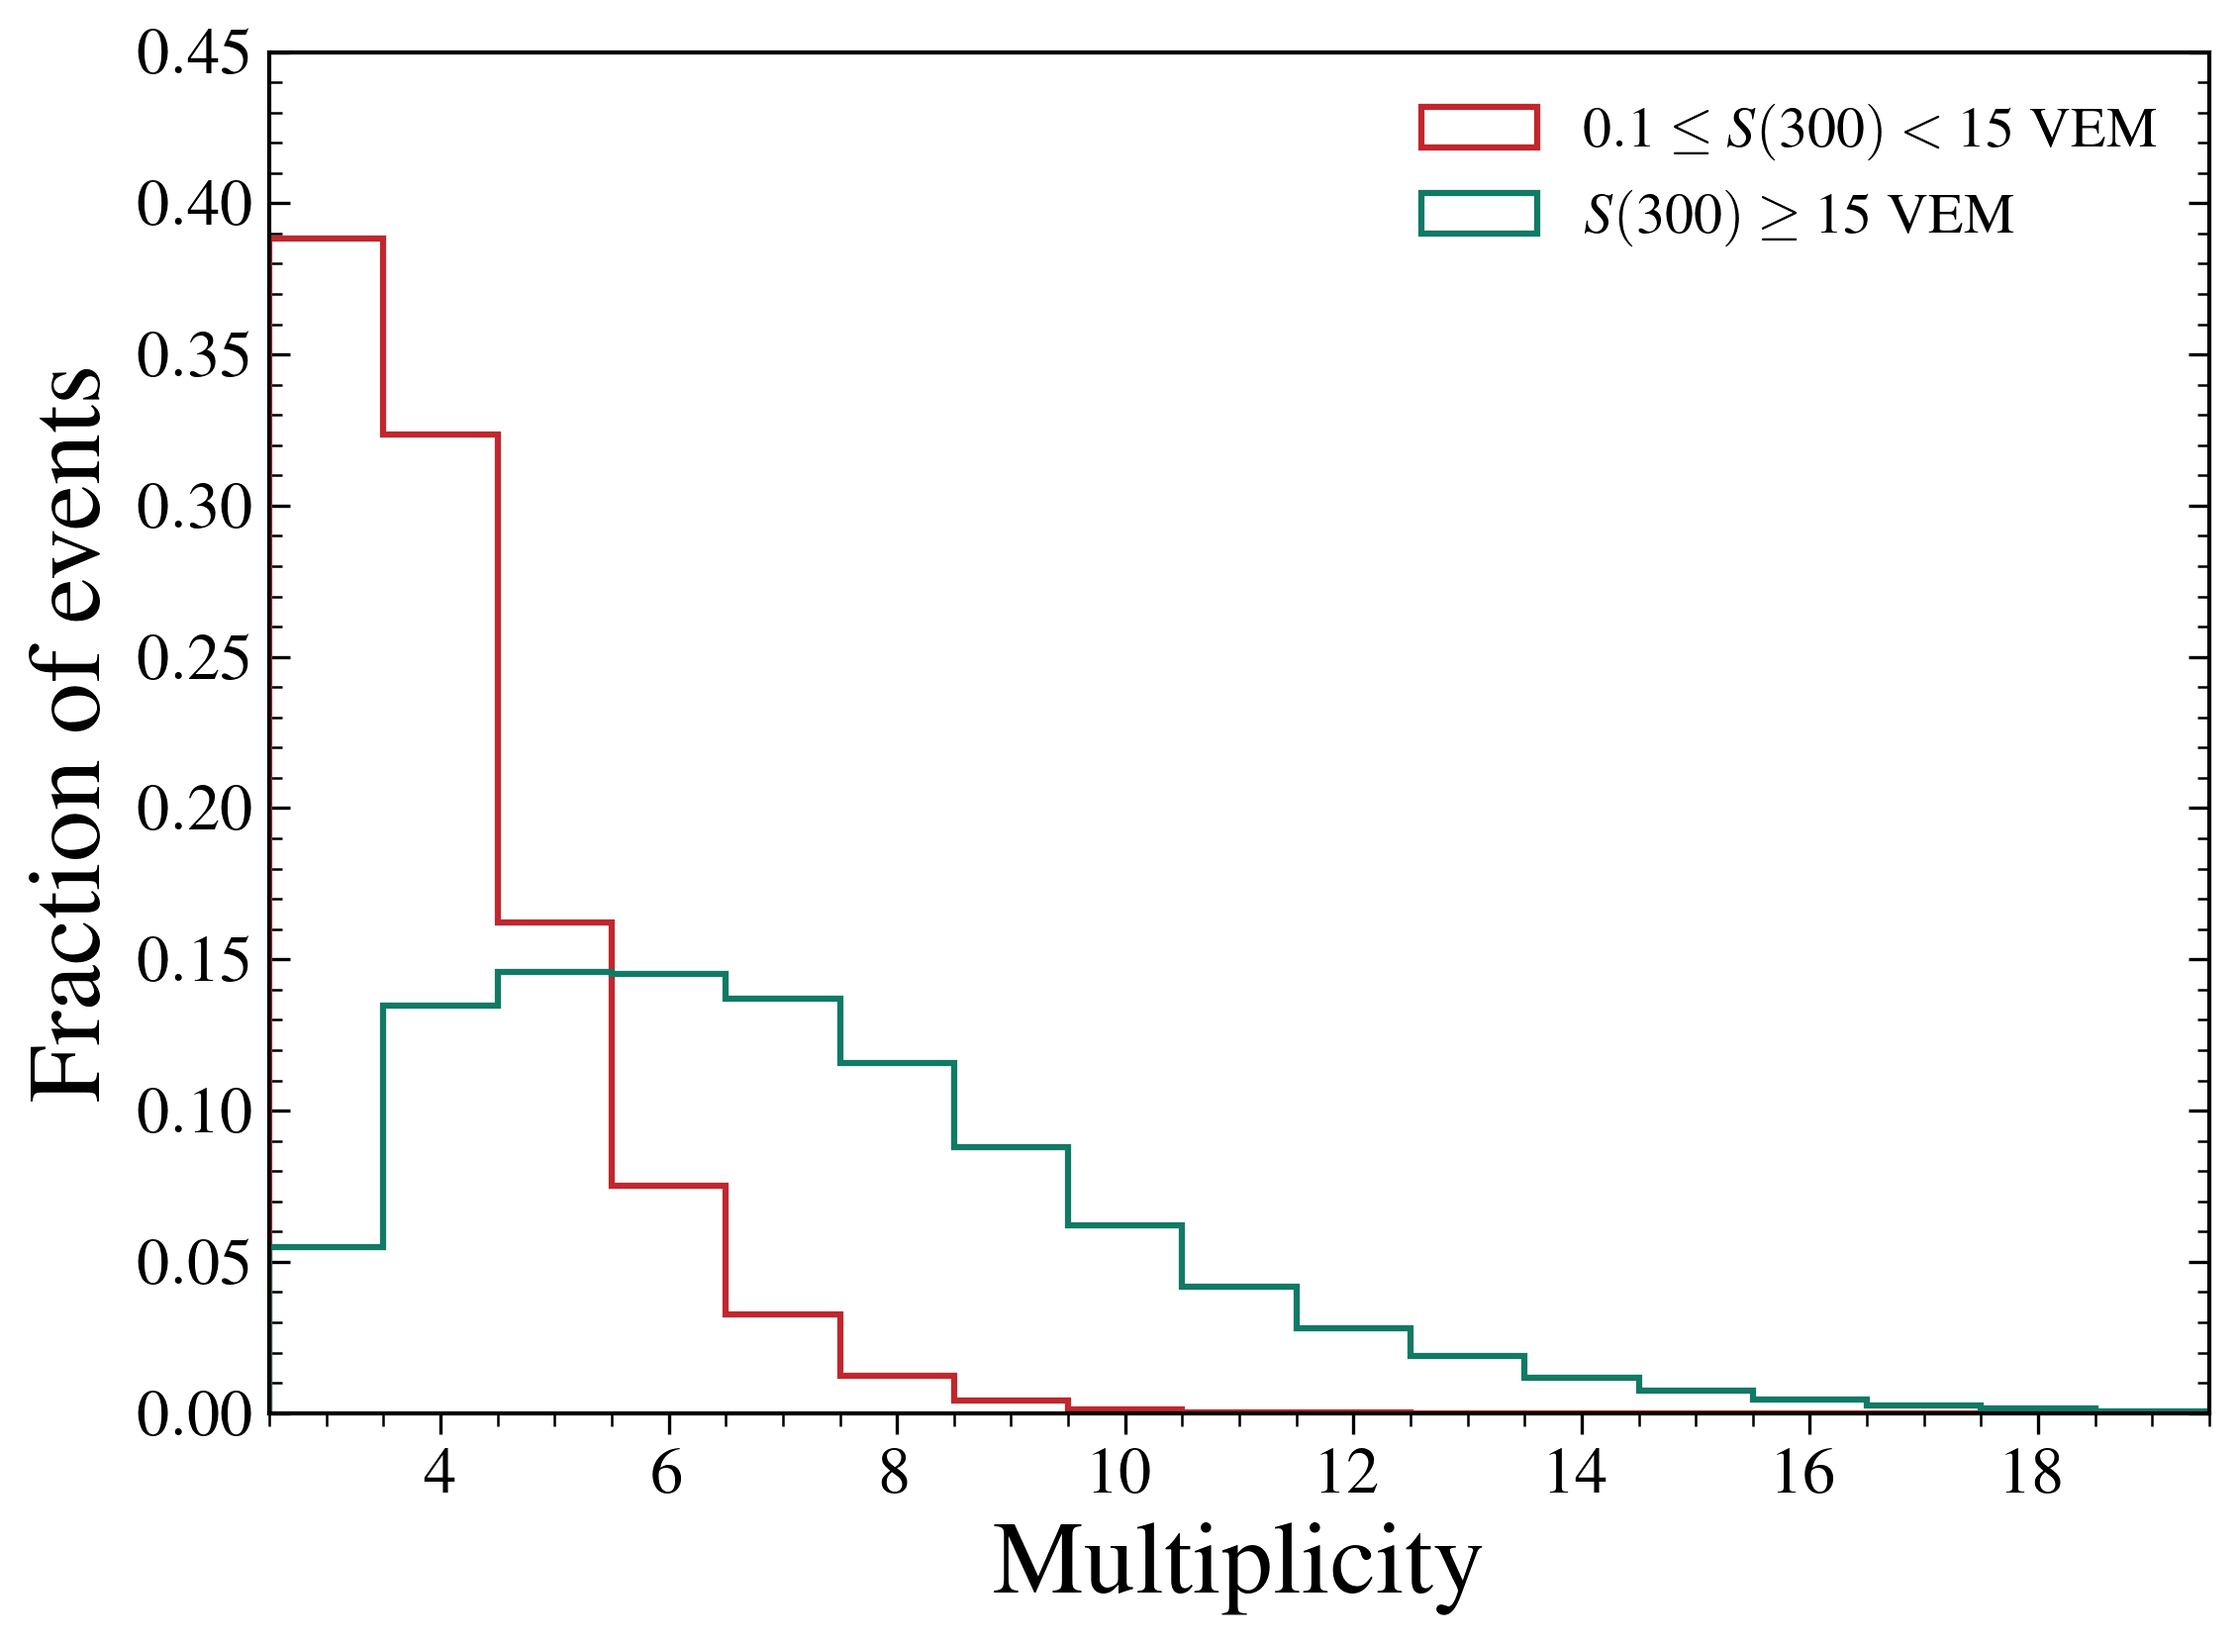
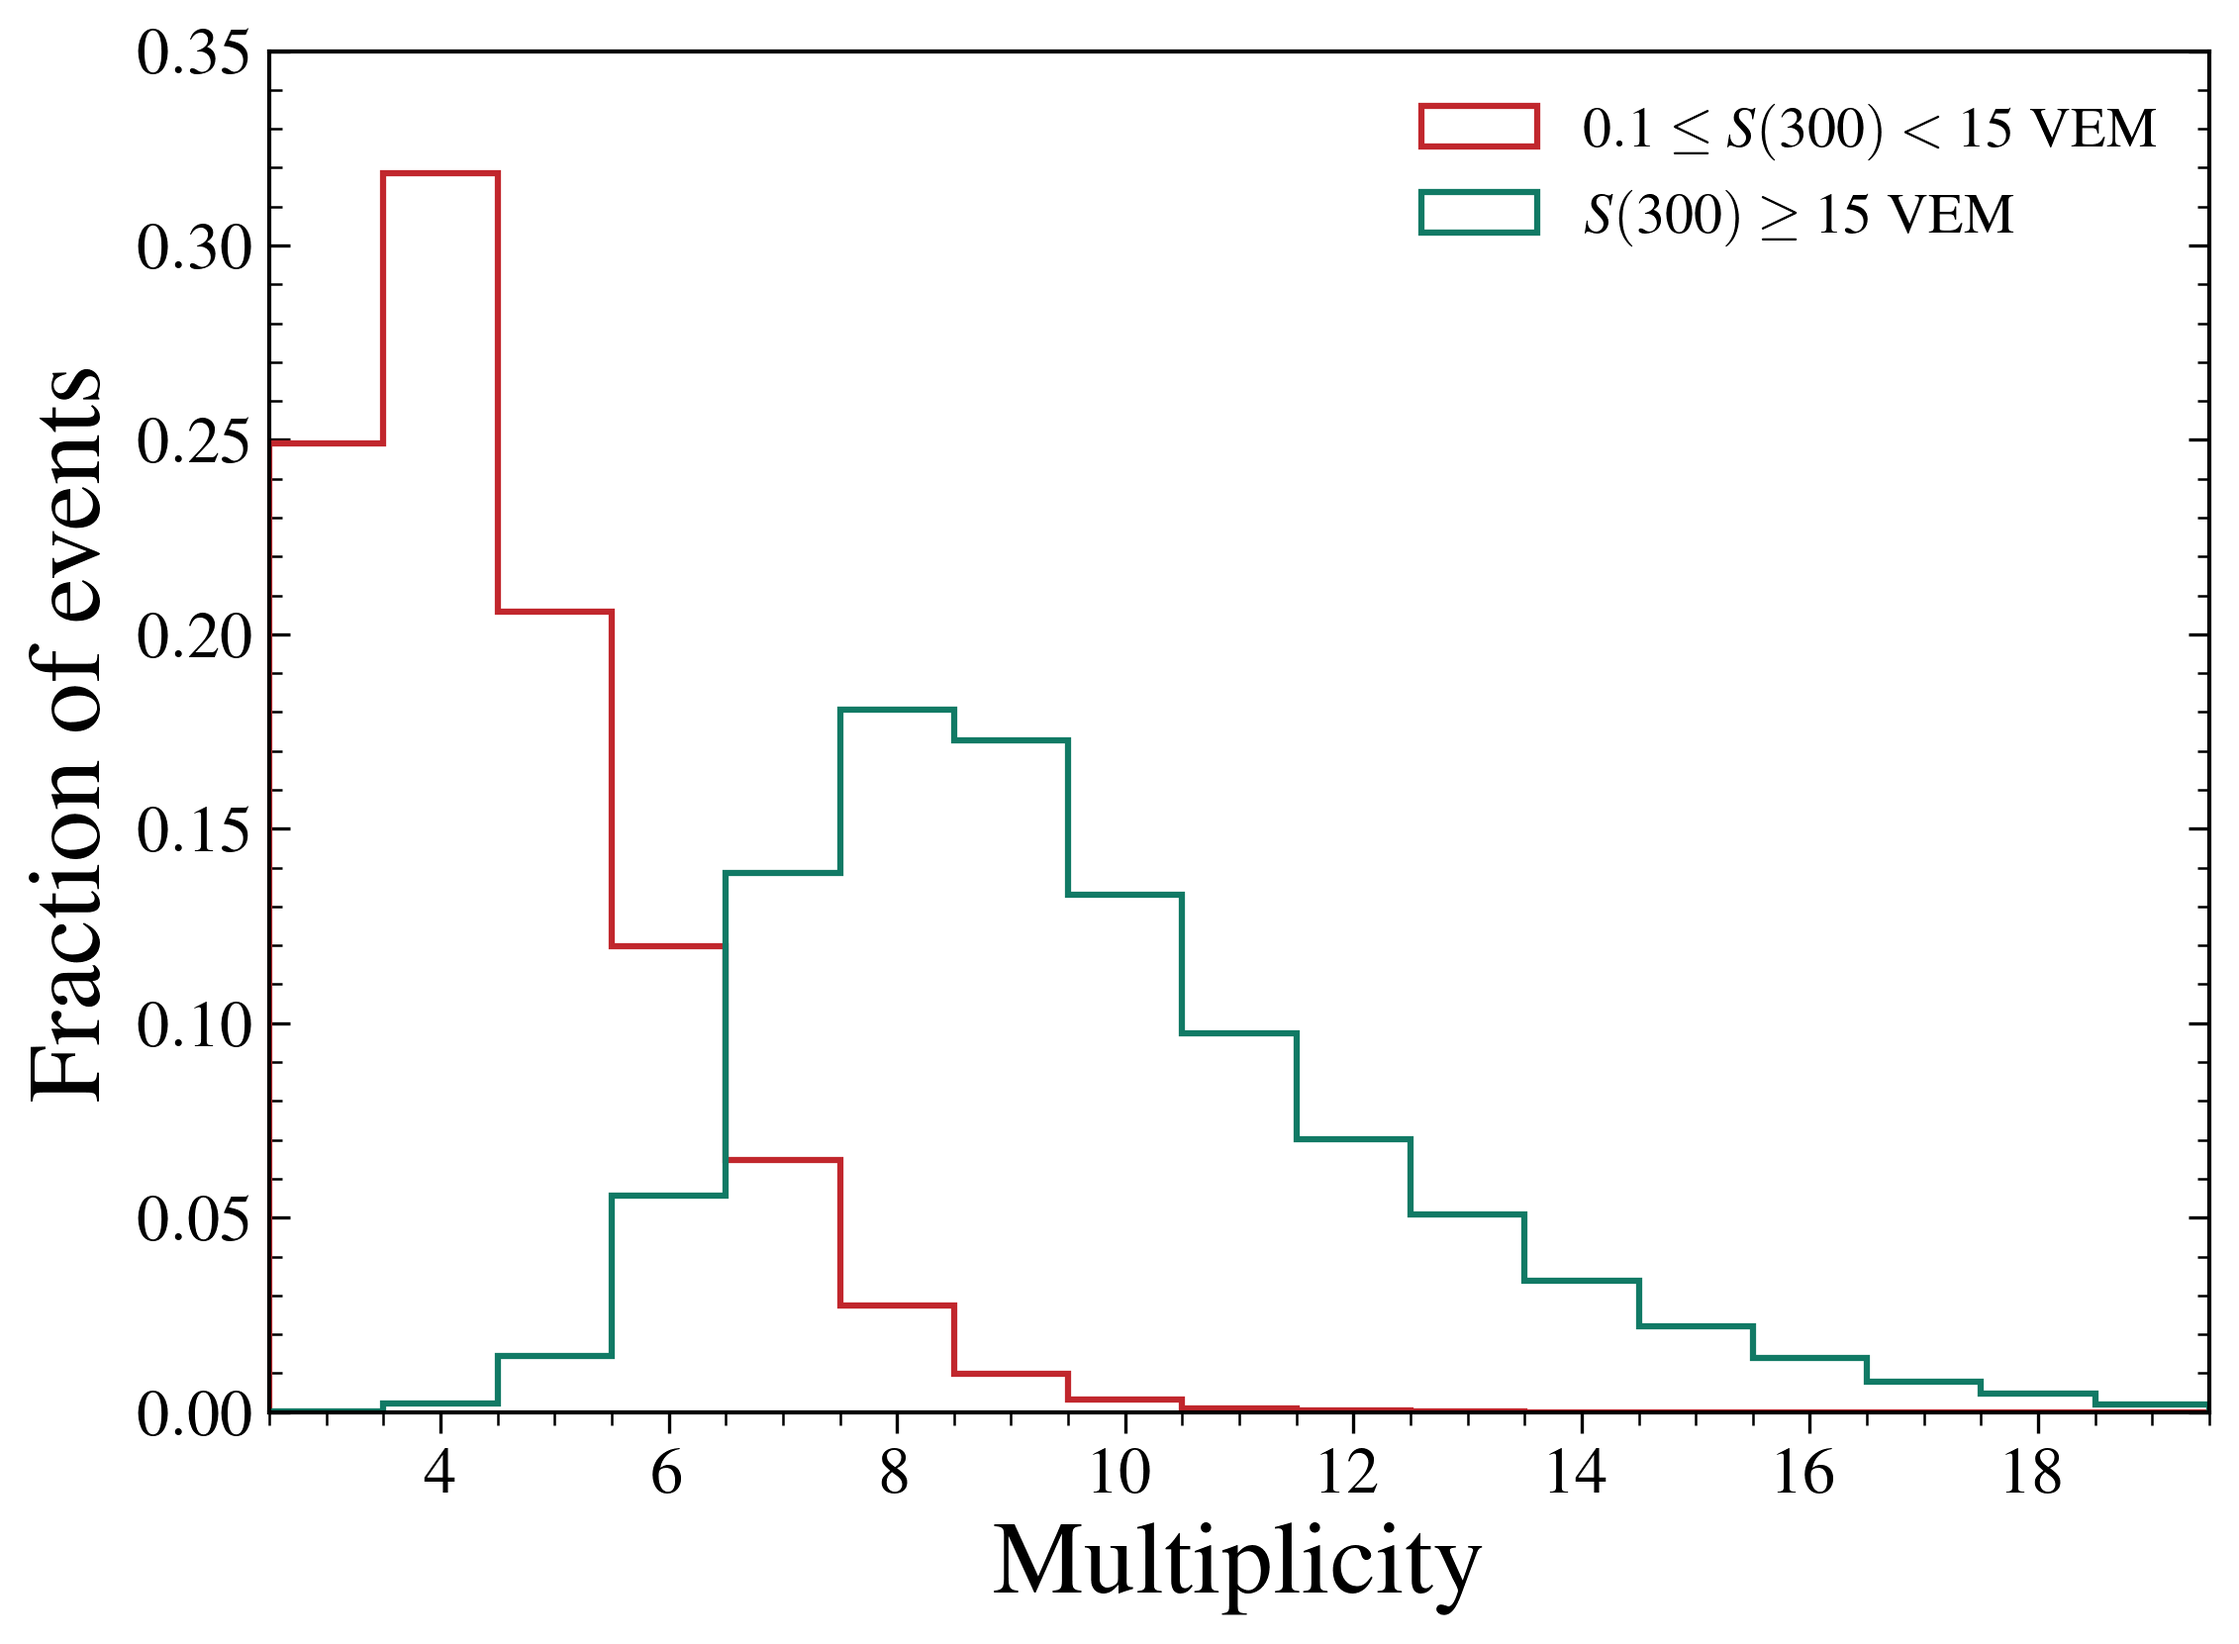
Complete SD-433 shower-size reconstruction section

diff --git a/Chapter_6_Energy_reconstruction.tex b/Chapter_6_Energy_reconstruction.tex
@@ -64,35 +64,27 @@ For events with lower station multiplicity, the number of degrees of freedom is 
 The left panel of \cref{fig:sd433_event_footprint_ldf} illustrates the geometrical reconstruction of an \sd{433} event.
 The marker size is proportional to the station signal, while the colour scale represents its start time, progressing from earlier signals in blue to later signals in green.
 The black line indicates the reconstructed arrival direction projected onto the ground, and the cross marks the reconstructed core position.
-% TODO: Describe the Offline geometrical reconstruction and the modified NKG
-% lateral-distribution function used for SD-433, including the fixed beta
-% parametrization and the definition of S(300).
-
-\begin{figure}
-    \centering
-    \includegraphics[width=\textwidth]{figures/chapter_reconstruction/event_footprint_ldf.pdf}
-    \caption{Example reconstruction of an \sd{433} event with zenith angle $\theta=\ang{32.0}$ and reconstructed shower size $S(300)=\qty{76.5\pm2.9}{VEM}$. The left panel shows the event footprint, with marker size proportional to the recorded signal and colour indicating the signal start time. The cross marks the reconstructed shower core, and the black line shows the projection of the arrival direction onto the ground. The right panel shows the recorded station signals as a function of the distance from the shower axis, together with the fitted \gls{ldf}. The red point indicates the reconstructed shower-size estimator $S(300)$.}
-    \label{fig:sd433_event_footprint_ldf}
-\end{figure}
+\subsection{Lateral-distribution function}
+\label{subsec:ldf}
 
 The shower size is then estimated by modeling the fall-off of the signal $S(r)$ with the distance $r$ to the shower axis using a \gls{ldf} ~\cite{Silli:2021:PerformanceSD433}.
 Intrinsic shower-to-shower fluctuations produce variations in the longitudinal development, such that individual events may be sampled at different stages of their development.
 As a consequence, the \gls{ldf} exhibits variations on an event-by-event basis, preventing the reconstruction of all the parameters in the shower. 
 Instead, the reconstruction is based on an \textit{average} LDF, $\langle S(r)\rangle$, and the expected signal at a fixed reference distance, $r_\text{opt}$, is adopted as the shower size.
 The optimal distance of \qty{300}{m} for the \sd{433} is determined by fitting the average LDF and identifying the distance at which the reconstructed shower size is minimally dependent on the LDF slope, following the method described in Ref.~\cite{Newton:2007:OptimalDistance}.
-In this way, the systematic uncertainty of the shower size is below 5\% \cite{Silli:2021:PerformanceSD433}.
+The dependence of the optimal distance on the assumed LDF shape, the primary energy, and the zenith angle remains at approximately the 5\% level~\cite{PierreAuger:2020:SDReconstruction}.
 The average LDF is described using an empirically-chosen model based on a modified \gls{nkg}function,
 \begin{align}
   \langle S(r)\rangle =
     S(r_\text{opt})
     \left(\frac{r}{r_\text{opt}}\right)^\beta
-    \left(\frac{r + r_\text{opt}}{r_\text{scale} + r_\text{opt}}\right)^\beta,
+    \left(\frac{r + r_\text{scale}}{r_\text{opt} + r_\text{scale}}\right)^\beta,
 \end{align}
 %
 where $\beta$ is the LDF slope and $r_\text{scale}=700\,\text{m}$ is a scale parameter.
 
-The slope of the \gls{ldf} was determined on an event-by-event basis, using a set of high quality events with multiplicity higher than five ~\cite{Silli:2021:PerformanceSD433}, where $\beta$ could be left as a free parameter from the fit.
-Then it was parameterized as
+The slope of the \gls{ldf} was determined on an event-by-event basis using a set of high-quality events with at least five triggered stations, for which $\beta$ could be left as a free parameter in the fit~\cite{Silli:2021:PerformanceSD433}.
+The fitted values were then used to parametrize the average dependence of the slope on the shower size and zenith angle as
 \begin{align}
     \beta(\theta,y)=a(\theta)+b(\theta)y
 \end{align}
@@ -115,37 +107,43 @@ The coefficients that govern the dependence in zenith angle, $a(\theta)$ and $b(
     \end{pmatrix}.
     \label{eq:beta_parameterization}
 \end{align}
-With this using the average \gls{ldf} the reconstruction can be performed for all the events.
-\cref{fig:sd433_size_zenith_distributions} shows a histogram of the reconstructed events.
-On the left panel, it can be seen that the number of events increases rapidly for $S(300)<15\mathrm{VEM}$ due to the increasing efficiency of the detector.
-However at signals higher than this, it starts to decay almost linearly due to the power-law like spectrum of the cosmic ray spectrum.
+The parametrization describes the event-by-event fitted slopes with an average relative difference of approximately $2\%$ over the considered range of shower sizes and zenith angles~\cite{Silli:2021:PerformanceSD433}.
+Once determined, this parametrization was fixed in the reconstruction of the complete data set, allowing events with insufficient station multiplicity to constrain the LDF slope to be reconstructed with the average LDF shape.
+With the LDF shape fixed by the parametrization of $\beta$, the shower size $S(300)$ and the core position $\vec{x}_{\mathrm{c}}$ are determined simultaneously through a maximum-likelihood fit.
+The likelihood accounts for the measured signals in the triggered stations and for active stations that did not trigger.
+Although no signal trace is available for these non-triggered stations, their presence constrains the fit, since an LDF predicting a signal above the trigger threshold at their positions is disfavoured.
+In this way, the LDF fit determines $S(300)$ and refines the core position obtained from the initial geometrical reconstruction.
+
+\begin{figure}
+    \centering
+    \includegraphics[width=\textwidth]{figures/chapter_reconstruction/event_footprint_ldf.pdf}
+    \caption{Example reconstruction of an \sd{433} event with zenith angle $\theta=\ang{32.0}$ and reconstructed shower size $S(300)=\qty{76.5\pm2.9}{VEM}$. The left panel shows the event footprint, with marker size proportional to the recorded signal and colour indicating the signal start time. The cross marks the reconstructed shower core, and the black line shows the projection of the arrival direction onto the ground. The right panel shows the recorded station signals as a function of the distance from the shower axis, together with the fitted \gls{ldf}. The red point indicates the reconstructed shower-size estimator $S(300)$.}
+    \label{fig:sd433_event_footprint_ldf}
+\end{figure}
+
+The left panel of \cref{fig:sd433_size_zenith_distributions} shows the distribution of the reconstructed shower size.
+At low values of $S(300)$, the number of events is strongly suppressed by the trigger efficiency.
+It increases as the array approaches full efficiency and then the distribution decreases approximately as a power law, reflecting the steeply falling cosmic-ray flux.
 The right panel shows the zenith angle distribution for the reconstructed events from 0 to $60^\circ$, the maximum angle of the vertical reconstruction implemented in \Offline.
-The reconstruction leads to \SDFourThreeTreeTotalNumberOfEvents that pass the 6T5 fiducial trigger.
+The distributions contain \SDFourThreeTreeTotalNumberOfEvents reconstructed events.
 However, as discussed in \cref{sec:efficiency}, events with $\theta<45^\circ$ are used in the spectrum in order to lower the full efficiency threshold for the array.
 
-In \cref{fig:sd433_multiplicity} a histogram of the multiplicity of the events is shown in two $S(300)$ bins, one for $S(300)<15\,\text{VEM}$ and $S(300)>15\,\text{VEM}$.
+In \cref{fig:sd433_multiplicity} the event multiplicity is shown in two $S(300)$ intervals, below and above $\qty{15}{VEM}$.
 This threshold is chosen to roughly correspond to the signal of the full efficiency threshold.
-For  the lower $S(300)$ bin, most of the events have only three or four triggered stations.
-However, at the higher $S(300)$, which roughly corresponds to the dataset used for the spectrum, less than $5\%$ of events have three triggered detectors, and most of them have six or more.
+For the lower $S(300)$ interval, most events have a multiplicity of three or four.
+For the higher $S(300)$ interval, which roughly corresponds to the data set used for the spectrum, $98.3\%$ of the events have a multiplicity greater than five.
 This improves the quality of the reconstructed events and provides a robust measurement of the signal and the energy of the events.
 \begin{figure}
     \centering
     \includegraphics[width=\textwidth]{figures/chapter_reconstruction/shower_size_zenith_distributions.png}
-    \caption{Distributions of the reconstructed shower size $S(300)$ (left) and zenith angle (right) for SD-433 events with $S(300)\geq0.1\,\mathrm{VEM}$ and $0^\circ\leq\theta<60^\circ$, before the subsequent analysis selections.}
+    \caption{Distributions of the reconstructed shower size $S(300)$ (left) and zenith angle (right) for SD-433 events satisfying the 6T5 condition, with $0^\circ\leq\theta<60^\circ$.}
     \label{fig:sd433_size_zenith_distributions}
 \end{figure}
-\subsection{Properties of the reconstructed sample}
-\label{subsec:reconstructed_sample}
-
-% TODO: Introduce the complete reconstructed sample before the later quality,
-% zenith, CIC, and calibration selections. State the S(300) >= 0.1 VEM display
-% threshold and the 0--60 degree zenith range used in these distributions.
-
 
 \begin{figure}[t]
     \centering
     \includegraphics[width=0.78\textwidth]{figures/chapter_reconstruction/multiplicity_by_shower_size.png}
-    \caption{Selected-station multiplicity for reconstructed events below and above $S(300)=15\,\mathrm{VEM}$. Each distribution is normalized independently to show the change in its shape with shower size.}
+    \caption{Multiplicity of reconstructed events below and above $S(300)=15\,\mathrm{VEM}$. Each distribution is normalized independently to show the change in its shape with shower size.}
     \label{fig:sd433_multiplicity}
 \end{figure}
 

diff --git a/values.tex b/values.tex
@@ -15,6 +15,7 @@
 % Full-efficiency threshold in lg(E/eV)
 \newcommand{\SDFourThreeThreeEminLog}{16.8}
 \newcommand{\SDFourThreeThreeNEvents}{$\num{34406}$}
+\newcommand{\SDFourThreeTreeTotalNumberOfEvents}{\num{443535}}
 
 \newcommand{\SDFourThreeThreeJZero}{$J_0=\num{0.9125(54)}$}
 \newcommand{\gammaZero}{$\gamma_0=\num{3.036(17)}$}
